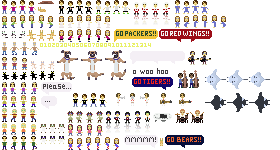
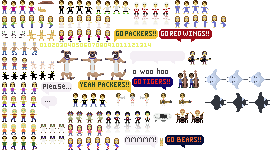
deployed yeah packers

Changed region(s): [[0.2571, 0.5333, 0.4857, 0.6133]]

diff --git a/demo/sarah/sarah.min.js b/demo/sarah/sarah.min.js
@@ -190,8 +190,8 @@ to:0,duration:500});a.wait(500);a.invoke(function(){m.addActor(o)});a.wait(2E3);
 (function(){SAM.Race=function(a,b,c){var a=(new L7.ColorLevelLoader(a,b,0)).load(),b=c.mattRace(L7.p(20,20)),d=c.sarahRace(L7.p(30,21)),c=c.raceClock(L7.p(5,24));a.addActors(b,d,c);a.ani.frame({targets:[b,d],pieceSetIndex:1,rate:150,looping:"backforth",loops:Infinity});c.ani.frame({targets:[c],pieceSetIndex:1,rate:1E3,looping:"backforth",loops:Infinity});return a}})();
 (function(){SAM.Skydiving=function(a,b,c,d,e){var f=new L7.ColorLevelLoader(a,d,0),a=f.load(),f=new L7.ColorLevelLoader(b,d,0),b=f.load(),f=new L7.ColorLevelLoader(c,d,0),c=f.load(),f=e.chad(L7.p(33,29)),g=e.tammy(L7.p(41,0)),h=e.bobo(L7.p(7,15)),e=e.boo(L7.p(19,48));a.addActors(f,g,h,e);a.ani.frame({targets:[f,g,h,e],pieceSetIndex:1,rate:150,looping:"backforth",loops:Infinity});a.parallaxRatio=0;b.parallaxRatio=0.4;c.parallaxRatio=0.2;c=new L7.ParallaxBoard({boards:[c,a,b],tileSize:d,width:a.width,
 height:a.height});b.ani.repeat(Infinity,function(a){a.invoke(function(){SAM.game.viewport.scrollY(1)});a.wait(10)});c.destroy=function(){SAM.game.viewport.reset()};return c}})();(function(){SAM.TedGarden=function(a,b,c){var a=(new L7.ColorLevelLoader(a,b,0)).load(),b=c.ted(L7.p(34,40)),d=c.chris(L7.p(49,41)),c=c.ben(L7.p(2,23));a.addActors(d,b,c);a.ani.frame({targets:[b,d,c],pieceSetIndex:1,rate:150,looping:"backforth",loops:Infinity});return a}})();
-(function(){SAM.UpperPeninsula=function(a,b,c){var d=(new L7.ColorLevelLoader(a,b,0)).load(),e=c.matt(L7.p(20,20)),f=c.sarah(L7.p(30,21)),g=c.chris(L7.p(40,21)),h=c.ted(L7.p(50,21)),k=c.emily(L7.p(10,21)),j=c.phil(L7.p(0,19)),i=c.goPackers(L7.p(3,5));d.addActors(e,f,g,h,k,j);d.ani.together(function(a){a.frame({targets:[e,f,g,h,k,j],pieceSetIndex:1,rate:150,looping:"backforth",loops:Infinity});a.sequence(function(a){a.wait(2E3);a.invoke(function(){d.addActor(i)});a.wait(3500);a.invoke(function(){d.removeActor(i)})})});
-return d}})();
+(function(){SAM.UpperPeninsula=function(a,b,c){var d=(new L7.ColorLevelLoader(a,b,0)).load(),e=c.matt(L7.p(20,20)),f=c.sarah(L7.p(30,21)),g=c.chris(L7.p(40,21)),h=c.ted(L7.p(50,21)),k=c.emily(L7.p(10,21)),j=c.phil(L7.p(0,19)),i=c.goPackers(L7.p(3,5)),l=c.yeahPackers(L7.p(2,5));d.addActors(e,f,g,h,k,j);d.ani.together(function(a){a.frame({targets:[e,f,g,h,k,j],pieceSetIndex:1,rate:150,looping:"backforth",loops:Infinity});a.sequence(function(a){a.wait(2E3);a.invoke(function(){d.addActor(i)});a.wait(3500);
+a.invoke(function(){d.removeActor(i)});a.wait(500);a.invoke(function(){d.addActor(l)});a.wait(3E3);a.invoke(function(){d.removeActor(l)})})});return d}})();
 (function(){var a={tileSizeRatio:1,from:"right",positionTweak:0,actors:[{n:"boo",y:17},{n:"chad",y:11},{n:"tammy",y:12},{n:"schoeffDance",y:13},{n:"bobo",y:16},{n:"ben",y:-4,x:1}],duration:8E3},b={tileSizeRatio:1.2,from:"left",positionTweak:0,actors:[{n:"ted",y:17},{n:"chris",y:17},{n:"buddy",y:20},{n:"dad",y:15},{n:"mom",y:16},{n:"livi",y:21}],duration:9E3,delay:1200},c={tileSizeRatio:1.4,from:"right",positionTweak:0,actors:[{n:"phil",y:20},{n:"emily",y:22},{n:"lily",y:24},{n:"lucy",y:23}],duration:1E4,
 delay:2E3},d={tileSizeRatio:1.8,from:"left",positionTweak:10,actors:[{n:"mattWedding",y:21}],duration:1E4,delay:4E3},e={tileSizeRatio:1.8,from:"right",positionTweak:18,actors:[{n:"sarahWedding",y:21}],duration:1E4,delay:4E3};SAM.Wedding=function(f,g,h){f=(new L7.ColorLevelLoader(f,g,0)).load();f.parallaxRatio=0;var k=h.john(L7.p(10,0)),j=h.byron(L7.p(40,-4)),i=h.nicky(L7.p(22,0));f.addActors(k,j,i);f.ani.frame({targets:[k,j,i],pieceSetIndex:0,rate:150,looping:"backforth",loops:Infinity});this.baseWidth=
 f.width;this.baseHeight=f.height;this.tileSize=g;this.spriteFactory=h;g=this._getRow(a);h=this._getRow(b);k=this._getRow(c);j=this._getRow(d);i=this._getRow(e);f=new L7.ParallaxBoard({boards:[f,g,h,k,j,i],width:f.width,height:f.height});f.destroy=function(){SAM.game.viewport.reset()};return f};SAM.Wedding.prototype._getRow=function(a){var b=new L7.Board({width:this.baseWidth,height:this.baseHeight,tileSize:this.tileSize*a.tileSizeRatio,parallaxRatio:0});b.offsetX=b.pixelWidth;"right"===a.from&&(b.offsetX*=
@@ -216,12 +216,12 @@ height:8,direction:"horizontal",sets:[[0],[0,1,2]],initialSet:0,initialFrame:0,a
 anchor:L7.p(0,0),offset:L7.p(0,42)},position:a||L7.p(0,0)})},chris:function(a){return new L7.Actor({framesConfig:{src:this.image,width:10,height:13,direction:"horizontal",sets:[[0],[1,2,3]],initialSet:0,initialFrame:0,anchor:L7.p(0,0),offset:L7.p(0,95)},position:a||L7.p(0,0)})},ben:function(a){return new L7.Actor({framesConfig:{src:this.image,width:24,height:30,direction:"horizontal",sets:[[0],[0,1,2]],initialSet:0,initialFrame:0,anchor:L7.p(0,0),offset:L7.p(57,50)},position:a||L7.p(0,0)})},dad:function(a){return new L7.Actor({framesConfig:{src:this.image,
 width:10,height:13,direction:"horizontal",sets:[[0],[1,2]],initialSet:0,initialFrame:0,anchor:L7.p(0,0),offset:L7.p(0,57)},position:a||L7.p(0,0)})},mom:function(a){return new L7.Actor({framesConfig:{src:this.image,width:10,height:13,direction:"horizontal",sets:[[0],[1,2,3]],initialSet:0,initialFrame:0,anchor:L7.p(0,0),offset:L7.p(0,82)},position:a||L7.p(0,0)})},livi:function(a){return new L7.Actor({framesConfig:{src:this.image,width:9,height:8,direction:"horizontal",sets:[[],[0,1,2]],initialSet:0,
 initialFrame:0,anchor:L7.p(0,0),offset:L7.p(40,136)},position:a||L7.p(0,0)})},buddy:function(a){return new L7.Actor({framesConfig:{src:this.image,width:9,height:9,direction:"horizontal",sets:[[],[0,1,2]],initialSet:0,initialFrame:0,anchor:L7.p(0,0),offset:L7.p(40,124)},position:a||L7.p(0,0)})},chad:function(a){return new L7.Actor({framesConfig:{src:this.image,width:10,height:14,direction:"horizontal",sets:[[0],[1,2,3]],initialSet:0,initialFrame:0,anchor:L7.p(0,0),offset:L7.p(0,136)},position:a||L7.p(0,
-0)})},phil:function(a){return new L7.Actor({framesConfig:{src:this.image,width:10,height:14,direction:"horizontal",sets:[[0],[1,2,3]],initialSet:0,initialFrame:0,anchor:L7.p(0,0),offset:L7.p(0,108)},position:a||L7.p(0,0)})},goPackers:function(a){return new L7.Actor({framesConfig:{src:this.image,width:44,height:14,direction:"horizontal",sets:[[0]],initialSet:0,initialFrame:0,anchor:L7.p(0,0),offset:L7.p(114,29)},position:a||L7.p(0,0)})},goTigers:function(a){return new L7.Actor({framesConfig:{src:this.image,
-width:41,height:14,direction:"horizontal",sets:[[0]],initialSet:0,initialFrame:0,anchor:L7.p(0,0),offset:L7.p(132,77)},position:a||L7.p(0,0)})},goRedWings:function(a){return new L7.Actor({framesConfig:{src:this.image,width:53,height:14,direction:"horizontal",sets:[[0]],initialSet:0,initialFrame:0,anchor:L7.p(0,0),offset:L7.p(159,29)},position:a||L7.p(0,0)})},emily:function(a){return new L7.Actor({framesConfig:{src:this.image,width:10,height:13,direction:"horizontal",sets:[[0],[1,2,3]],initialSet:0,
-initialFrame:0,anchor:L7.p(0,0),offset:L7.p(0,123)},position:a||L7.p(0,0)})},tammy:function(a){return new L7.Actor({framesConfig:{src:this.image,width:10,height:13,direction:"horizontal",sets:[[0],[1,2,3]],initialSet:0,initialFrame:0,anchor:L7.p(0,0),offset:L7.p(66,123)},position:a||L7.p(0,0)})},troll:function(a){return new L7.Actor({framesConfig:{src:this.image,width:10,height:13,direction:"horizontal",sets:[[0],[1,2,3]],initialSet:0,initialFrame:0,anchor:L7.p(0,0),offset:L7.p(65,111)},position:a||
-L7.p(0,0)})},avPlayer:function(a){return new L7.Actor({framesConfig:{src:this.image,width:10,height:26,direction:"horizontal",sets:[[0],[1,2,3]],initialSet:0,initialFrame:0,anchor:L7.p(0,0),offset:L7.p(104,111)},position:a||L7.p(0,0)})},avPlayerNoShadow:function(a){return new L7.Actor({framesConfig:{src:this.image,width:10,height:12,direction:"horizontal",sets:[[0],[1,2,3]],initialSet:0,initialFrame:0,anchor:L7.p(0,0),offset:L7.p(104,111)},position:a||L7.p(0,0)})},redwingPlayer:function(a){return new L7.Actor({framesConfig:{src:this.image,
-width:10,height:26,direction:"horizontal",sets:[[0],[1,2,3]],initialSet:0,initialFrame:0,anchor:L7.p(0,0),offset:L7.p(132,2)},position:a||L7.p(0,0)})},redwingPlayerNoShadow:function(a){return new L7.Actor({framesConfig:{src:this.image,width:10,height:12,direction:"horizontal",sets:[[0],[1,2,3]],initialSet:0,initialFrame:0,anchor:L7.p(0,0),offset:L7.p(132,2)},position:a||L7.p(0,0)})},hockeyRef:function(a){return new L7.Actor({framesConfig:{src:this.image,width:9,height:26,direction:"horizontal",sets:[[0],
-[0]],initialSet:0,initialFrame:0,anchor:L7.p(0,0),offset:L7.p(144,111)},position:a||L7.p(0,0)})},chipotleBlimp:function(a){return new L7.Actor({framesConfig:{src:this.image,width:19,height:9,direction:"horizontal",sets:[[0],[0]],initialSet:0,initialFrame:0,anchor:L7.p(0,0),offset:L7.p(153,113)},position:a||L7.p(0,0)})},woohooBubble:function(a){return new L7.Actor({framesConfig:{src:this.image,width:55,height:14,direction:"horizontal",sets:[[0]],initialSet:0,initialFrame:0,anchor:L7.p(0,0),offset:L7.p(130,
-51)},position:a||L7.p(0,0)})},ooo:function(a){return new L7.Actor({framesConfig:{src:this.image,width:3,height:4,direction:"horizontal",sets:[[0]],initialSet:0,initialFrame:0,anchor:L7.p(0,0),offset:L7.p(133,70)},position:a||L7.p(0,0)})},woo:function(a){return new L7.Actor({framesConfig:{src:this.image,width:13,height:4,direction:"horizontal",sets:[[0]],initialSet:0,initialFrame:0,anchor:L7.p(0,0),offset:L7.p(140,70)},position:a||L7.p(0,0)})},hoo:function(a){return new L7.Actor({framesConfig:{src:this.image,
-width:11,height:6,direction:"horizontal",sets:[[0]],initialSet:0,initialFrame:0,anchor:L7.p(0,0),offset:L7.p(157,68)},position:a||L7.p(0,0)})},john:function(a){return new L7.Actor({framesConfig:{src:this.image,width:12,height:14,direction:"horizontal",sets:[[0,1]],initialSet:0,initialFrame:0,anchor:L7.p(0,0),offset:L7.p(188,51)},position:a||L7.p(0,0)})},byron:function(a){return new L7.Actor({framesConfig:{src:this.image,width:11,height:18,direction:"horizontal",sets:[[0,1]],initialSet:0,initialFrame:0,
-anchor:L7.p(0,0),offset:L7.p(178,70)},position:a||L7.p(0,0)})},nicky:function(a){return new L7.Actor({framesConfig:{src:this.image,width:15,height:14,direction:"horizontal",sets:[[0,1]],initialSet:0,initialFrame:0,anchor:L7.p(0,0),offset:L7.p(175,109)},position:a||L7.p(0,0)})}}})();
+0)})},phil:function(a){return new L7.Actor({framesConfig:{src:this.image,width:10,height:14,direction:"horizontal",sets:[[0],[1,2,3]],initialSet:0,initialFrame:0,anchor:L7.p(0,0),offset:L7.p(0,108)},position:a||L7.p(0,0)})},goPackers:function(a){return new L7.Actor({framesConfig:{src:this.image,width:44,height:14,direction:"horizontal",sets:[[0]],initialSet:0,initialFrame:0,anchor:L7.p(0,0),offset:L7.p(114,29)},position:a||L7.p(0,0)})},yeahPackers:function(a){return new L7.Actor({framesConfig:{src:this.image,
+width:54,height:13,direction:"horizontal",sets:[[0]],initialSet:0,initialFrame:0,anchor:L7.p(0,0),offset:L7.p(78,80)},position:a||L7.p(0,0)})},goTigers:function(a){return new L7.Actor({framesConfig:{src:this.image,width:41,height:14,direction:"horizontal",sets:[[0]],initialSet:0,initialFrame:0,anchor:L7.p(0,0),offset:L7.p(132,77)},position:a||L7.p(0,0)})},goRedWings:function(a){return new L7.Actor({framesConfig:{src:this.image,width:53,height:14,direction:"horizontal",sets:[[0]],initialSet:0,initialFrame:0,
+anchor:L7.p(0,0),offset:L7.p(159,29)},position:a||L7.p(0,0)})},emily:function(a){return new L7.Actor({framesConfig:{src:this.image,width:10,height:13,direction:"horizontal",sets:[[0],[1,2,3]],initialSet:0,initialFrame:0,anchor:L7.p(0,0),offset:L7.p(0,123)},position:a||L7.p(0,0)})},tammy:function(a){return new L7.Actor({framesConfig:{src:this.image,width:10,height:13,direction:"horizontal",sets:[[0],[1,2,3]],initialSet:0,initialFrame:0,anchor:L7.p(0,0),offset:L7.p(66,123)},position:a||L7.p(0,0)})},
+troll:function(a){return new L7.Actor({framesConfig:{src:this.image,width:10,height:13,direction:"horizontal",sets:[[0],[1,2,3]],initialSet:0,initialFrame:0,anchor:L7.p(0,0),offset:L7.p(65,111)},position:a||L7.p(0,0)})},avPlayer:function(a){return new L7.Actor({framesConfig:{src:this.image,width:10,height:26,direction:"horizontal",sets:[[0],[1,2,3]],initialSet:0,initialFrame:0,anchor:L7.p(0,0),offset:L7.p(104,111)},position:a||L7.p(0,0)})},avPlayerNoShadow:function(a){return new L7.Actor({framesConfig:{src:this.image,
+width:10,height:12,direction:"horizontal",sets:[[0],[1,2,3]],initialSet:0,initialFrame:0,anchor:L7.p(0,0),offset:L7.p(104,111)},position:a||L7.p(0,0)})},redwingPlayer:function(a){return new L7.Actor({framesConfig:{src:this.image,width:10,height:26,direction:"horizontal",sets:[[0],[1,2,3]],initialSet:0,initialFrame:0,anchor:L7.p(0,0),offset:L7.p(132,2)},position:a||L7.p(0,0)})},redwingPlayerNoShadow:function(a){return new L7.Actor({framesConfig:{src:this.image,width:10,height:12,direction:"horizontal",
+sets:[[0],[1,2,3]],initialSet:0,initialFrame:0,anchor:L7.p(0,0),offset:L7.p(132,2)},position:a||L7.p(0,0)})},hockeyRef:function(a){return new L7.Actor({framesConfig:{src:this.image,width:9,height:26,direction:"horizontal",sets:[[0],[0]],initialSet:0,initialFrame:0,anchor:L7.p(0,0),offset:L7.p(144,111)},position:a||L7.p(0,0)})},chipotleBlimp:function(a){return new L7.Actor({framesConfig:{src:this.image,width:19,height:9,direction:"horizontal",sets:[[0],[0]],initialSet:0,initialFrame:0,anchor:L7.p(0,
+0),offset:L7.p(153,113)},position:a||L7.p(0,0)})},woohooBubble:function(a){return new L7.Actor({framesConfig:{src:this.image,width:55,height:14,direction:"horizontal",sets:[[0]],initialSet:0,initialFrame:0,anchor:L7.p(0,0),offset:L7.p(130,51)},position:a||L7.p(0,0)})},ooo:function(a){return new L7.Actor({framesConfig:{src:this.image,width:3,height:4,direction:"horizontal",sets:[[0]],initialSet:0,initialFrame:0,anchor:L7.p(0,0),offset:L7.p(133,70)},position:a||L7.p(0,0)})},woo:function(a){return new L7.Actor({framesConfig:{src:this.image,
+width:13,height:4,direction:"horizontal",sets:[[0]],initialSet:0,initialFrame:0,anchor:L7.p(0,0),offset:L7.p(140,70)},position:a||L7.p(0,0)})},hoo:function(a){return new L7.Actor({framesConfig:{src:this.image,width:11,height:6,direction:"horizontal",sets:[[0]],initialSet:0,initialFrame:0,anchor:L7.p(0,0),offset:L7.p(157,68)},position:a||L7.p(0,0)})},john:function(a){return new L7.Actor({framesConfig:{src:this.image,width:12,height:14,direction:"horizontal",sets:[[0,1]],initialSet:0,initialFrame:0,
+anchor:L7.p(0,0),offset:L7.p(188,51)},position:a||L7.p(0,0)})},byron:function(a){return new L7.Actor({framesConfig:{src:this.image,width:11,height:18,direction:"horizontal",sets:[[0,1]],initialSet:0,initialFrame:0,anchor:L7.p(0,0),offset:L7.p(178,70)},position:a||L7.p(0,0)})},nicky:function(a){return new L7.Actor({framesConfig:{src:this.image,width:15,height:14,direction:"horizontal",sets:[[0,1]],initialSet:0,initialFrame:0,anchor:L7.p(0,0),offset:L7.p(175,109)},position:a||L7.p(0,0)})}}})();

diff --git a/demo/sarah/sarah.debug.js b/demo/sarah/sarah.debug.js
@@ -1076,6 +1076,7 @@ enumerable:!1})})();(function(){L7.rand=function(a,b,c){_.isUndefined(c)&&(c=!1)
 		var emily = spriteFactory.emily(L7.p(10, 21));
 		var phil = spriteFactory.phil(L7.p(0, 19));
 		var goPackers = spriteFactory.goPackers(L7.p(3, 5));
+		var yeahPackers = spriteFactory.yeahPackers(L7.p(2, 5));
 
 		board.addActors(matt, sarah, chris, ted, emily, phil);
 
@@ -1095,6 +1096,14 @@ enumerable:!1})})();(function(){L7.rand=function(a,b,c){_.isUndefined(c)&&(c=!1)
 				ani.wait(3500);
 				ani.invoke(function() {
 					board.removeActor(goPackers);
+				});
+				ani.wait(500);
+				ani.invoke(function() {
+					board.addActor(yeahPackers);
+				});
+				ani.wait(3000);
+				ani.invoke(function() {
+					board.removeActor(yeahPackers);
 				});
 			});
 		});
@@ -2140,6 +2149,23 @@ enumerable:!1})})();(function(){L7.rand=function(a,b,c){_.isUndefined(c)&&(c=!1)
 					initialFrame: 0,
 					anchor: L7.p(0, 0),
 					offset: L7.p(114, 29)
+				},
+				position: position || L7.p(0, 0)
+			});
+		},
+
+		yeahPackers: function(position) {
+			return new L7.Actor({
+				framesConfig: {
+					src: this.image,
+					width: 54,
+					height: 13,
+					direction: 'horizontal',
+					sets: [[0]],
+					initialSet: 0,
+					initialFrame: 0,
+					anchor: L7.p(0, 0),
+					offset: L7.p(78,80)
 				},
 				position: position || L7.p(0, 0)
 			});

diff --git a/demo/sarah/boards/UpperPeninsula.js b/demo/sarah/boards/UpperPeninsula.js
@@ -10,6 +10,7 @@
 		var emily = spriteFactory.emily(L7.p(10, 21));
 		var phil = spriteFactory.phil(L7.p(0, 19));
 		var goPackers = spriteFactory.goPackers(L7.p(3, 5));
+		var yeahPackers = spriteFactory.yeahPackers(L7.p(2, 5));
 
 		board.addActors(matt, sarah, chris, ted, emily, phil);
 
@@ -29,6 +30,14 @@
 				ani.wait(3500);
 				ani.invoke(function() {
 					board.removeActor(goPackers);
+				});
+				ani.wait(500);
+				ani.invoke(function() {
+					board.addActor(yeahPackers);
+				});
+				ani.wait(3000);
+				ani.invoke(function() {
+					board.removeActor(yeahPackers);
 				});
 			});
 		});

diff --git a/demo/sarah/SpriteFactory.js b/demo/sarah/SpriteFactory.js
@@ -634,6 +634,23 @@
 			});
 		},
 
+		yeahPackers: function(position) {
+			return new L7.Actor({
+				framesConfig: {
+					src: this.image,
+					width: 54,
+					height: 13,
+					direction: 'horizontal',
+					sets: [[0]],
+					initialSet: 0,
+					initialFrame: 0,
+					anchor: L7.p(0, 0),
+					offset: L7.p(78,80)
+				},
+				position: position || L7.p(0, 0)
+			});
+		},
+
 		goTigers: function(position) {
 			return new L7.Actor({
 				framesConfig: {
